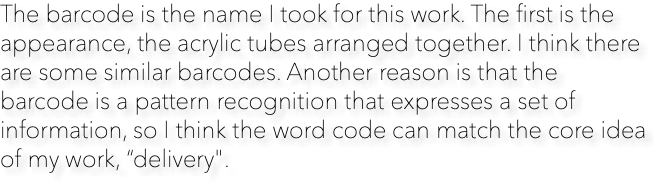
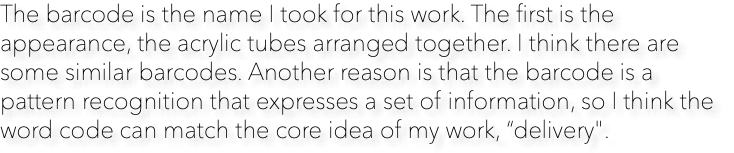
00

Changed region(s): [[0.0, 0.183, 1.0, 0.7582], [0.0, 0.0, 0.9466, 0.1569], [0.0, 0.7843, 0.8244, 0.9412]]

diff --git a/css/index.css b/css/index.css
@@ -1,1 +1,1 @@
-.version.index{color:#0000E2;background-color:#67AF83;}#page{z-index:1;width:1024px;min-height:7855px;background-image:none;border-width:0px;border-color:#000000;background-color:transparent;padding-bottom:62px;margin-left:auto;margin-right:auto;}#ppu615{z-index:0;width:0.01px;height:7841.950000000001px;padding-bottom:0px;margin-right:-10000px;margin-left:-100px;}#pu615{z-index:2;width:0.01px;height:788px;}#u615{z-index:2;min-height:401px;opacity:1;-ms-filter:"progid:DXImageTransform.Microsoft.Alpha(Opacity=100)";filter:alpha(opacity=100);padding-bottom:387px;background:#FFFFFF url("../images/773d0ced-c651-49f3-9534-1b053b5fc418%e6%8b%b7%e8%b2%9d.jpg?crc=303330456") no-repeat center center;background-size:cover;}#u132-4{z-index:15;display:block;vertical-align:top;position:relative;margin-right:-10000px;margin-top:239px;left:375px;}#u515-4{z-index:37;display:block;vertical-align:top;position:relative;margin-right:-10000px;margin-top:318px;left:437px;}.js body{visibility:hidden;}.js body.initialized{visibility:visible;}#u615-bw{z-index:2;min-height:401px;}#u369{z-index:126;width:113px;vertical-align:top;position:fixed;top:21px;left:50%;margin-left:151px;}#u369_states{float:left;width:113px;height:45px;background:transparent url("../images/u369_states.png?crc=101367247") no-repeat 0px 0px;}#u369:hover #u369_states{background:transparent url("../images/u369_states-r.png?crc=491187115") no-repeat 0px 0px;}#u369:active #u369_states{background:transparent url("../images/u369_states-m.png?crc=491187115") no-repeat 0px 0px;}#u372{z-index:130;width:136px;vertical-align:top;position:fixed;top:20px;left:50%;margin-left:299px;}#u372_states{float:left;width:136px;height:45px;background:transparent url("../images/u372_states.png?crc=3808893271") no-repeat 0px 0px;}#u372:hover #u372_states{background:transparent url("../images/u372_states-r.png?crc=125439119") no-repeat 0px 0px;}#u372:active #u372_states{background:transparent url("../images/u372_states-m.png?crc=125439119") no-repeat 0px 0px;}#u375{z-index:134;width:113px;vertical-align:top;position:fixed;top:21px;left:50%;margin-left:470px;}#u375_states{float:left;width:113px;height:45px;background:transparent url("../images/u375_states.png?crc=522217631") no-repeat 0px 0px;}#u375:hover #u375_states{background:transparent url("../images/u375_states-r.png?crc=406026535") no-repeat 0px 0px;}#u375:active #u375_states{background:transparent url("../images/u375_states-m.png?crc=406026535") no-repeat 0px 0px;}#pa{z-index:41;width:0.01px;margin-left:128px;margin-top:152px;}#a{position:relative;margin-right:-10000px;width:22px;margin-top:163px;}#u192-4{z-index:19;display:block;vertical-align:top;margin-bottom:-1px;position:relative;margin-right:-10000px;left:160px;}#u500{z-index:10;min-height:643px;background-color:#EDEDED;}#u506{z-index:11;width:316px;height:179px;background-color:#F4F5F4;position:relative;margin-right:-10000px;margin-top:285px;left:296px;}#u503{z-index:12;width:316px;height:179px;background-color:#F4F5F4;position:relative;margin-right:-10000px;margin-top:106px;left:100px;}#u509{z-index:13;width:316px;height:179px;background-color:#F4F5F4;position:relative;margin-right:-10000px;margin-top:464px;left:100px;}#u489{z-index:14;width:317px;box-shadow:0px 0px 8px rgba(127,127,127,0.5),0px 0px 8px rgba(127,127,127,0.5);background:-webkit-gradient(linear, center top, center bottom, from(rgba(255,255,255,0.5)),color-stop(100%, rgba(0,0,0,0.8)));background:-webkit-linear-gradient(top,rgba(255,255,255,0.5) ,rgba(0,0,0,0.8) 100%);background:linear-gradient(to bottom,rgba(255,255,255,0.5) ,rgba(0,0,0,0.8) 100%);filter:progid:DXImageTransform.Microsoft.gradient(startColorstr=#7FFFFFFF, endColorstr=#CC000000, GradientType=0);-ms-filter:"progid:DXImageTransform.Microsoft.gradient(startColorstr='#7FFFFFFF', endColorstr='#CC000000', GradientType=0)";border-radius:4px;padding-bottom:12px;position:relative;margin-right:-10000px;margin-top:52px;left:137px;}#u1182{z-index:123;width:314px;height:562px;opacity:1;-ms-filter:"progid:DXImageTransform.Microsoft.Alpha(Opacity=100)";filter:alpha(opacity=100);position:relative;margin-right:-10000px;margin-top:-12px;left:-9px;background:transparent url("../images/d9cc2016-a17c-4a67-8f40-1ed4b892792a%e6%8b%b7%e8%b2%9d.jpg?crc=3882555485") no-repeat left top;background-size:cover;}#u302-4{z-index:23;display:block;vertical-align:top;position:relative;margin-right:-10000px;margin-top:52px;left:501px;}#u320-6{z-index:27;display:block;vertical-align:top;position:relative;margin-right:-10000px;margin-top:127px;left:501px;}#u496-4{z-index:33;display:block;vertical-align:top;position:relative;margin-right:-10000px;margin-top:433px;left:501px;}#u500-bw{z-index:10;min-height:643px;margin-top:145px;}#b{margin-left:139px;margin-top:149px;position:relative;}#u947-4{z-index:53;display:block;vertical-align:top;margin-left:130px;margin-top:148px;position:relative;}#u809{z-index:6;width:1018px;box-shadow:0px 30px 70px rgba(0,0,0,0.5);background-color:#6CCFAF;padding-bottom:35px;margin-left:100px;margin-top:125px;position:relative;}#u639{z-index:42;width:390px;height:437px;opacity:1;-ms-filter:"progid:DXImageTransform.Microsoft.Alpha(Opacity=100)";filter:alpha(opacity=100);position:relative;margin-right:-10000px;margin-top:-95px;left:649px;background:transparent url("../images/%e9%9b%b7%e5%88%87.gif?crc=120545667") no-repeat left top;background-size:cover;}#u953-4{z-index:57;display:block;vertical-align:top;position:relative;margin-right:-10000px;margin-top:-17px;left:286px;}#u962-4{z-index:61;display:block;vertical-align:top;position:relative;margin-right:-10000px;margin-top:80px;left:190px;}#u812{z-index:7;width:1024px;box-shadow:0px 30px 70px rgba(0,0,0,0.5);background-color:#6CCFAF;padding-bottom:36px;margin-left:100px;margin-top:353px;position:relative;}#u776{z-index:43;width:390px;height:437px;opacity:1;-ms-filter:"progid:DXImageTransform.Microsoft.Alpha(Opacity=100)";filter:alpha(opacity=100);position:relative;margin-right:-10000px;margin-top:-96px;left:18px;background:transparent url("../images/%e5%9b%ba%e5%ae%9a.gif?crc=284323498") no-repeat left top;background-size:cover;}#pu965-4{z-index:65;width:0.01px;padding-bottom:0px;margin-right:-10000px;margin-top:-16px;margin-left:408px;}#u965-4{z-index:65;display:block;vertical-align:top;position:relative;}#u968-7{z-index:69;display:block;vertical-align:top;margin-top:27px;position:relative;}#u815{z-index:9;width:1018px;box-shadow:0px 30px 70px rgba(0,0,0,0.5);background-color:#6CCFAF;padding-bottom:37px;margin-left:100px;margin-top:354px;position:relative;}#pu971-4{z-index:76;width:0.01px;margin-right:-10000px;margin-top:-15px;margin-left:190px;}#u971-4{z-index:76;display:block;vertical-align:top;margin-left:291px;position:relative;}#u980-7{z-index:84;display:block;vertical-align:top;margin-top:45px;position:relative;}#u782{z-index:45;width:390px;height:437px;opacity:1;-ms-filter:"progid:DXImageTransform.Microsoft.Alpha(Opacity=100)";filter:alpha(opacity=100);position:relative;margin-right:-10000px;margin-top:-97px;left:649px;background:transparent url("../images/%e5%a3%93%e5%85%8b%e5%8a%9b.gif?crc=4241762188") no-repeat left top;background-size:cover;}#u818{z-index:8;width:1024px;box-shadow:0px 30px 70px rgba(0,0,0,0.5);background-color:#6CCFAF;padding-bottom:38px;margin-left:100px;margin-top:353px;position:relative;}#u779{z-index:44;width:390px;height:437px;opacity:1;-ms-filter:"progid:DXImageTransform.Microsoft.Alpha(Opacity=100)";filter:alpha(opacity=100);position:relative;margin-right:-10000px;margin-top:-98px;left:21px;background:transparent url("../images/%e7%84%8a%e6%8e%a5.gif?crc=381000801") no-repeat left top;background-size:cover;}.js #u639.ose_pre_init,.js #u776.ose_pre_init,.js #u782.ose_pre_init,.js #u779.ose_pre_init{opacity:0;-ms-filter:"progid:DXImageTransform.Microsoft.Alpha(Opacity=0)";filter:alpha(opacity=0);}#pu977-4{z-index:80;width:0.01px;margin-right:-10000px;margin-top:-15px;margin-left:408px;}#u977-4{z-index:80;display:block;vertical-align:top;margin-left:3px;position:relative;}#u986-7{z-index:91;display:block;vertical-align:top;margin-top:34px;position:relative;}#c{margin-left:150px;margin-top:191px;position:relative;}#u1103-4{z-index:100;display:block;vertical-align:top;margin-left:161px;margin-top:100px;position:relative;}#u1135{z-index:112;height:1px;background-color:#000000;}#u1135-bw{z-index:112;margin-top:-1px;margin-bottom:-1px;height:1px;}#pu1113{z-index:5;width:0.01px;margin-top:120px;}#u1113{z-index:5;width:413px;height:300px;background-color:#BEBEBE;position:relative;margin-right:-10000px;margin-top:26px;left:811px;}#u851{z-index:46;width:782px;height:428px;opacity:0.5;-ms-filter:"progid:DXImageTransform.Microsoft.Alpha(Opacity=50)";filter:alpha(opacity=50);position:relative;margin-right:-10000px;background:transparent url("../images/9c3586ba-180e-463c-811e-eaa049f3c681%e6%8b%b7%e8%b2%9d.jpg?crc=484098491") no-repeat left top;background-size:cover;}#u851:hover{background-repeat:no-repeat;background-position:left top;opacity:1;-ms-filter:"progid:DXImageTransform.Microsoft.Alpha(Opacity=100)";filter:alpha(opacity=100);width:782px;height:428px;min-height:0px;margin:0px -10000px 0px 0px;background-size:cover;}#u851:active{background-repeat:no-repeat;background-position:left top;opacity:1;-ms-filter:"progid:DXImageTransform.Microsoft.Alpha(Opacity=100)";filter:alpha(opacity=100);width:782px;height:428px;min-height:0px;margin:0px -10000px 0px 0px;background-size:cover;}#u1106{z-index:104;width:594px;box-shadow:0px 0px 8px rgba(127,127,127,0.5),0px 0px 8px rgba(127,127,127,0.5);background-color:#FFFFFF;padding-bottom:23px;position:relative;margin-right:-10000px;margin-top:77px;left:557px;}#u927-7{z-index:105;display:block;vertical-align:top;position:relative;margin-right:-10000px;margin-top:24px;left:27px;}#u1128{z-index:3;width:1024px;box-shadow:0px 0px 8px rgba(127,127,127,0.5),0px 0px 8px rgba(127,127,127,0.5);background-color:#FFFFFF;padding-bottom:20px;margin-left:100px;margin-top:208px;position:relative;}#u930-6{z-index:47;display:block;vertical-align:top;position:relative;margin-right:-10000px;margin-top:25px;left:39px;}#u874{z-index:4;min-height:863px;opacity:1;-ms-filter:"progid:DXImageTransform.Microsoft.Alpha(Opacity=100)";filter:alpha(opacity=100);padding-bottom:38px;background:transparent url("../images/f6516d1e-27da-408f-962f-e79bb9cf5bcd.jpg?crc=3899258750") no-repeat left top;background-size:cover;}#u615_align_to_page,#u500_align_to_page,#u874_align_to_page{margin-left:auto;margin-right:auto;position:relative;width:1024px;left:-100px;}#u1154-4{z-index:113;display:block;vertical-align:top;position:relative;margin-right:-10000px;margin-top:833px;left:429px;}#u874-bw{z-index:4;min-height:863px;margin-top:208px;}#u1171-6{z-index:117;display:block;vertical-align:top;margin-left:290px;margin-top:425px;position:relative;}#u512{z-index:124;height:102px;background-color:#FFFFFF;position:fixed;top:0px;}#u512-bw{z-index:124;}.css_verticalspacer .verticalspacer{height:calc(100vh - 7916px);}#muse_css_mq,.html{background-color:#FFFFFF;}body{position:relative;min-width:1024px;}
+.version.index{color:#000004;background-color:#63BD69;}#page{z-index:1;width:1024px;min-height:7855px;background-image:none;border-width:0px;border-color:#000000;background-color:transparent;padding-bottom:62px;margin-left:auto;margin-right:auto;}#ppu615{z-index:0;width:0.01px;height:7854.800000000001px;padding-bottom:0px;margin-right:-10000px;margin-left:-114px;}#pu615{z-index:3;width:0.01px;height:788px;margin-left:14px;}#u615{z-index:3;min-height:639px;opacity:1;-ms-filter:"progid:DXImageTransform.Microsoft.Alpha(Opacity=100)";filter:alpha(opacity=100);padding-bottom:149px;background:#FFFFFF url("../images/773d0ced-c651-49f3-9534-1b053b5fc418%e6%8b%b7%e8%b2%9d.jpg?crc=303330456") no-repeat center center;background-size:cover;}#pd{z-index:146;width:0.01px;padding-bottom:0px;margin-right:-10000px;margin-top:2px;margin-left:139px;}#d{margin-left:6px;position:relative;}#a{margin-top:600px;position:relative;}#ppu132-4{z-index:0;width:0.01px;margin-right:-10000px;margin-top:239px;margin-left:288px;}#pu132-4{z-index:17;width:0.01px;margin-left:87px;}#u132-4{z-index:17;display:block;vertical-align:top;position:relative;margin-right:-10000px;}#u515-4{z-index:43;display:block;vertical-align:top;position:relative;margin-right:-10000px;margin-top:79px;left:62px;}#u1154-4{z-index:126;display:block;vertical-align:top;top:-6px;margin-bottom:-6px;position:relative;}.js body{visibility:hidden;}.js body.initialized{visibility:visible;}#u615-bw{z-index:3;min-height:639px;}#u369{z-index:152;width:113px;vertical-align:top;position:fixed;top:39px;right:343px;}#u369_states{float:left;width:113px;height:34px;background:transparent url("../images/u369_states.png?crc=458908203") no-repeat 0px 0px;}#u369:hover #u369_states{background:transparent url("../images/u369_states-r.png?crc=4029497256") no-repeat 0px 0px;}#u369:active #u369_states{background:transparent url("../images/u369_states-m.png?crc=4029497256") no-repeat 0px 0px;}#u372{z-index:156;width:136px;vertical-align:top;position:fixed;top:40px;right:172px;}#u372_states{float:left;width:136px;height:33px;background:transparent url("../images/u372_states.png?crc=108451225") no-repeat 0px 0px;}#u372:hover #u372_states{background:transparent url("../images/u372_states-r.png?crc=3971885787") no-repeat 0px 0px;}#u372:active #u372_states{background:transparent url("../images/u372_states-m.png?crc=3971885787") no-repeat 0px 0px;}#u375{z-index:160;width:113px;vertical-align:top;position:fixed;top:43px;right:24px;}#u375_states{float:left;width:113px;height:29px;background:transparent url("../images/u375_states.png?crc=4010306546") no-repeat 0px 0px;}#u375:hover #u375_states{background:transparent url("../images/u375_states-r.png?crc=422188611") no-repeat 0px 0px;}#u375:active #u375_states{background:transparent url("../images/u375_states-m.png?crc=422188611") no-repeat 0px 0px;}#pu1249{z-index:2;width:0.01px;margin-left:223px;margin-top:107px;}#u1249{z-index:2;width:227px;height:233px;opacity:1;-ms-filter:"progid:DXImageTransform.Microsoft.Alpha(Opacity=100)";filter:alpha(opacity=100);position:relative;margin-right:-10000px;margin-top:18px;left:688px;background:transparent url("../images/%e7%87%88%e6%b3%a1icon_%e5%b7%a5%e4%bd%9c%e5%8d%80%e5%9f%9f%201.png?crc=525418351") no-repeat left top;background-size:cover;}#u192-4{z-index:21;display:block;vertical-align:top;position:relative;margin-right:-10000px;margin-top:77px;}#u1268-4{z-index:29;display:block;vertical-align:top;position:relative;margin-right:-10000px;}#u500{z-index:12;min-height:643px;background-color:#EDEDED;}#u506{z-index:13;width:316px;height:179px;background-color:#F4F5F4;position:relative;margin-right:-10000px;margin-top:285px;left:296px;}#u503{z-index:14;width:316px;height:179px;background-color:#F4F5F4;position:relative;margin-right:-10000px;margin-top:106px;left:100px;}#u509{z-index:15;width:316px;height:179px;background-color:#F4F5F4;position:relative;margin-right:-10000px;margin-top:464px;left:100px;}#u489{z-index:16;width:317px;box-shadow:0px 0px 8px rgba(127,127,127,0.5),0px 0px 8px rgba(127,127,127,0.5);background:-webkit-gradient(linear, center top, center bottom, from(rgba(255,255,255,0.5)),color-stop(100%, rgba(0,0,0,0.8)));background:-webkit-linear-gradient(top,rgba(255,255,255,0.5) ,rgba(0,0,0,0.8) 100%);background:linear-gradient(to bottom,rgba(255,255,255,0.5) ,rgba(0,0,0,0.8) 100%);filter:progid:DXImageTransform.Microsoft.gradient(startColorstr=#7FFFFFFF, endColorstr=#CC000000, GradientType=0);-ms-filter:"progid:DXImageTransform.Microsoft.gradient(startColorstr='#7FFFFFFF', endColorstr='#CC000000', GradientType=0)";border-radius:4px;padding-bottom:12px;position:relative;margin-right:-10000px;margin-top:52px;left:137px;}#u1182{z-index:136;width:314px;height:562px;opacity:1;-ms-filter:"progid:DXImageTransform.Microsoft.Alpha(Opacity=100)";filter:alpha(opacity=100);position:relative;margin-right:-10000px;margin-top:-12px;left:-9px;background:transparent url("../images/d9cc2016-a17c-4a67-8f40-1ed4b892792a%e6%8b%b7%e8%b2%9d.jpg?crc=3882555485") no-repeat left top;background-size:cover;}#u302-4{z-index:25;display:block;vertical-align:top;position:relative;margin-right:-10000px;margin-top:52px;left:501px;}#u320-6{z-index:33;display:block;vertical-align:top;position:relative;margin-right:-10000px;margin-top:127px;left:501px;}#u496-4{z-index:39;display:block;vertical-align:top;position:relative;margin-right:-10000px;margin-top:433px;left:501px;}#u500-bw{z-index:12;min-height:643px;margin-top:120px;}#b{margin-left:153px;margin-top:149px;position:relative;}#u947-4{z-index:59;display:block;vertical-align:top;margin-left:144px;margin-top:148px;position:relative;}#pu809{z-index:8;width:0.01px;padding-bottom:84px;margin-top:125px;}#u809{z-index:8;width:1018px;box-shadow:0px 30px 70px rgba(0,0,0,0.5);background-color:#6CCFAF;padding-bottom:35px;position:relative;margin-right:-10000px;left:114px;}#u639{z-index:48;width:390px;height:437px;opacity:1;-ms-filter:"progid:DXImageTransform.Microsoft.Alpha(Opacity=100)";filter:alpha(opacity=100);position:relative;margin-right:-10000px;margin-top:-95px;left:649px;background:transparent url("../images/%e9%9b%b7%e5%88%87.gif?crc=120545667") no-repeat left top;background-size:cover;}#u953-4{z-index:63;display:block;vertical-align:top;position:relative;margin-right:-10000px;margin-top:-17px;left:286px;}#u962-4{z-index:67;display:block;vertical-align:top;position:relative;margin-right:-10000px;margin-top:80px;left:190px;}#u1275{z-index:137;width:370px;height:320px;opacity:1;-ms-filter:"progid:DXImageTransform.Microsoft.Alpha(Opacity=100)";filter:alpha(opacity=100);-webkit-transform:matrix(0.7071,0.7071,-0.7071,0.7071,167,-84);-ms-transform:matrix(0.7071,0.7071,-0.7071,0.7071,167,-84);transform:matrix(0.7071,0.7071,-0.7071,0.7071,167,-84);position:relative;margin-right:-10000px;margin-top:84px;left:59px;background:transparent url("../images/%e8%a8%8a%e8%99%9ficon_%e5%b7%a5%e4%bd%9c%e5%8d%80%e5%9f%9f%201.png?crc=464360201") no-repeat left top;background-size:cover;}#u1306{z-index:141;width:39px;height:38px;box-shadow:0px 10px 70px rgba(0,0,0,0.5);background-color:#7F7F7F;border-radius:50%;margin-left:607px;margin-top:56px;position:relative;}#pu812{z-index:9;width:0.01px;padding-bottom:84px;margin-left:114px;margin-top:148px;}#u812{z-index:9;width:1024px;box-shadow:0px 30px 70px rgba(0,0,0,0.5);background-color:#6CCFAF;padding-bottom:36px;position:relative;margin-right:-10000px;}#u776{z-index:49;width:390px;height:437px;opacity:1;-ms-filter:"progid:DXImageTransform.Microsoft.Alpha(Opacity=100)";filter:alpha(opacity=100);position:relative;margin-right:-10000px;margin-top:-96px;left:18px;background:transparent url("../images/%e5%9b%ba%e5%ae%9a.gif?crc=284323498") no-repeat left top;background-size:cover;}#pu965-4{z-index:71;width:0.01px;padding-bottom:0px;margin-right:-10000px;margin-top:-16px;margin-left:408px;}#u965-4{z-index:71;display:block;vertical-align:top;position:relative;}#u968-7{z-index:75;display:block;vertical-align:top;margin-top:27px;position:relative;}#u1294{z-index:139;width:370px;height:320px;opacity:1;-ms-filter:"progid:DXImageTransform.Microsoft.Alpha(Opacity=100)";filter:alpha(opacity=100);-webkit-transform:matrix(0.7071,-0.7071,0.7071,0.7071,-59,178);-ms-transform:matrix(0.7071,-0.7071,0.7071,0.7071,-59,178);transform:matrix(0.7071,-0.7071,0.7071,0.7071,-59,178);position:relative;margin-right:-10000px;margin-top:84px;left:697px;background:transparent url("../images/%e8%a8%8a%e8%99%9ficon_%e5%b7%a5%e4%bd%9c%e5%8d%80%e5%9f%9f%201.png?crc=464360201") no-repeat left top;background-size:cover;}#u1309{z-index:142;width:39px;height:38px;box-shadow:0px 10px 70px rgba(0,0,0,0.5);background-color:#7F7F7F;border-radius:50%;margin-left:605px;margin-top:39px;position:relative;}#pu815{z-index:11;width:0.01px;padding-bottom:84px;margin-left:14px;margin-top:165px;}#u815{z-index:11;width:1018px;box-shadow:0px 30px 70px rgba(0,0,0,0.5);background-color:#6CCFAF;padding-bottom:37px;position:relative;margin-right:-10000px;left:100px;}#pu971-4{z-index:82;width:0.01px;margin-right:-10000px;margin-top:-15px;margin-left:190px;}#u971-4{z-index:82;display:block;vertical-align:top;margin-left:291px;position:relative;}#u980-7{z-index:90;display:block;vertical-align:top;margin-top:45px;position:relative;}#u782{z-index:51;width:390px;height:437px;opacity:1;-ms-filter:"progid:DXImageTransform.Microsoft.Alpha(Opacity=100)";filter:alpha(opacity=100);position:relative;margin-right:-10000px;margin-top:-97px;left:649px;background:transparent url("../images/%e5%a3%93%e5%85%8b%e5%8a%9b.gif?crc=4241762188") no-repeat left top;background-size:cover;}#u1300{z-index:138;width:370px;height:320px;opacity:1;-ms-filter:"progid:DXImageTransform.Microsoft.Alpha(Opacity=100)";filter:alpha(opacity=100);-webkit-transform:matrix(0.7071,0.7071,-0.7071,0.7071,167,-84);-ms-transform:matrix(0.7071,0.7071,-0.7071,0.7071,167,-84);transform:matrix(0.7071,0.7071,-0.7071,0.7071,167,-84);position:relative;margin-right:-10000px;margin-top:84px;left:59px;background:transparent url("../images/%e8%a8%8a%e8%99%9ficon_%e5%b7%a5%e4%bd%9c%e5%8d%80%e5%9f%9f%201.png?crc=464360201") no-repeat left top;background-size:cover;}#u1312{z-index:143;width:39px;height:38px;box-shadow:0px 10px 70px rgba(0,0,0,0.5);background-color:#7F7F7F;border-radius:50%;margin-left:607px;margin-top:40px;position:relative;}#pu818{z-index:10;width:0.01px;padding-bottom:84px;margin-left:114px;margin-top:165px;}#u818{z-index:10;width:1024px;box-shadow:0px 30px 70px rgba(0,0,0,0.5);background-color:#6CCFAF;padding-bottom:38px;position:relative;margin-right:-10000px;}#u779{z-index:50;width:390px;height:437px;opacity:1;-ms-filter:"progid:DXImageTransform.Microsoft.Alpha(Opacity=100)";filter:alpha(opacity=100);position:relative;margin-right:-10000px;margin-top:-98px;left:21px;background:transparent url("../images/%e7%84%8a%e6%8e%a5.gif?crc=381000801") no-repeat left top;background-size:cover;}.js #u639.ose_pre_init,.js #u776.ose_pre_init,.js #u782.ose_pre_init,.js #u779.ose_pre_init{opacity:0;-ms-filter:"progid:DXImageTransform.Microsoft.Alpha(Opacity=0)";filter:alpha(opacity=0);}#pu977-4{z-index:86;width:0.01px;margin-right:-10000px;margin-top:-15px;margin-left:408px;}#u977-4{z-index:86;display:block;vertical-align:top;margin-left:3px;position:relative;}#u986-7{z-index:97;display:block;vertical-align:top;margin-top:34px;position:relative;}#u1297{z-index:140;width:370px;height:320px;opacity:1;-ms-filter:"progid:DXImageTransform.Microsoft.Alpha(Opacity=100)";filter:alpha(opacity=100);-webkit-transform:matrix(0.7071,-0.7071,0.7071,0.7071,-59,178);-ms-transform:matrix(0.7071,-0.7071,0.7071,0.7071,-59,178);transform:matrix(0.7071,-0.7071,0.7071,0.7071,-59,178);position:relative;margin-right:-10000px;margin-top:84px;left:697px;background:transparent url("../images/%e8%a8%8a%e8%99%9ficon_%e5%b7%a5%e4%bd%9c%e5%8d%80%e5%9f%9f%201.png?crc=464360201") no-repeat left top;background-size:cover;}#c{margin-left:164px;margin-top:211px;position:relative;}#u1103-4{z-index:106;display:block;vertical-align:top;margin-left:175px;margin-top:100px;position:relative;}#pu1113{z-index:6;width:0.01px;margin-left:14px;margin-top:15px;}#u1113{z-index:6;width:413px;height:300px;background-color:#BEBEBE;position:relative;margin-right:-10000px;left:811px;}#u851{z-index:52;width:782px;height:428px;opacity:0.5;-ms-filter:"progid:DXImageTransform.Microsoft.Alpha(Opacity=50)";filter:alpha(opacity=50);position:relative;margin-right:-10000px;margin-top:105px;background:transparent url("../images/9c3586ba-180e-463c-811e-eaa049f3c681%e6%8b%b7%e8%b2%9d.jpg?crc=484098491") no-repeat left top;background-size:cover;}#u851:hover{background-repeat:no-repeat;background-position:left top;opacity:1;-ms-filter:"progid:DXImageTransform.Microsoft.Alpha(Opacity=100)";filter:alpha(opacity=100);width:782px;height:428px;min-height:0px;margin:105px -10000px 0px 0px;background-size:cover;}#u851:active{background-repeat:no-repeat;background-position:left top;opacity:1;-ms-filter:"progid:DXImageTransform.Microsoft.Alpha(Opacity=100)";filter:alpha(opacity=100);width:782px;height:428px;min-height:0px;margin:105px -10000px 0px 0px;background-size:cover;}#u1106{z-index:118;width:594px;box-shadow:0px 0px 8px rgba(127,127,127,0.5),0px 0px 8px rgba(127,127,127,0.5);background-color:#FFFFFF;padding-bottom:23px;position:relative;margin-right:-10000px;margin-top:182px;left:557px;}#u927-7{z-index:119;display:block;vertical-align:top;position:relative;margin-right:-10000px;margin-top:24px;left:27px;}#u1128{z-index:4;width:1024px;box-shadow:0px 0px 8px rgba(127,127,127,0.5),0px 0px 8px rgba(127,127,127,0.5);background-color:#FFFFFF;padding-bottom:23px;margin-left:114px;margin-top:208px;position:relative;}#u930-6{z-index:53;display:block;vertical-align:top;position:relative;margin-right:-10000px;margin-top:22px;left:40px;}#pu1330{z-index:7;width:0.01px;margin-left:14px;margin-top:119px;}#u1330{z-index:7;min-height:70px;background-color:#BEBEBE;padding-bottom:26px;}#u615_align_to_page,#u500_align_to_page,#u1330_align_to_page{margin-left:auto;margin-right:auto;position:relative;width:1024px;left:-100px;}#u1340-4{z-index:110;display:block;vertical-align:top;position:relative;margin-right:-10000px;margin-top:34px;left:361px;}#u1343-4{z-index:114;display:block;vertical-align:top;position:relative;margin-right:-10000px;margin-top:34px;left:782px;}#u1330-bw{z-index:7;min-height:70px;margin-top:151px;}#u1333{z-index:144;width:313px;background-color:#FFFFFF;padding-bottom:8px;position:relative;margin-right:-10000px;left:455px;}#u1319{z-index:145;width:254px;height:243px;opacity:1;-ms-filter:"progid:DXImageTransform.Microsoft.Alpha(Opacity=100)";filter:alpha(opacity=100);position:relative;margin-right:-10000px;margin-top:30px;left:29px;background:transparent url("../images/%e5%a4%aa%e9%99%bdicon_%e5%b7%a5%e4%bd%9c%e5%8d%80%e5%9f%9f%201.png?crc=332841456") no-repeat left top;background-size:cover;}#u874{z-index:5;height:842px;opacity:1;-ms-filter:"progid:DXImageTransform.Microsoft.Alpha(Opacity=100)";filter:alpha(opacity=100);background:transparent url("../images/f6516d1e-27da-408f-962f-e79bb9cf5bcd.jpg?crc=3899258750") no-repeat left top;background-size:cover;}#u874-bw{z-index:5;height:842px;}#u1391{z-index:148;height:76px;width:74px;vertical-align:top;position:fixed;bottom:105px;right:94px;background:transparent url("../images/%e6%96%b9%e5%90%91%e6%a8%99%ef%bc%88%e4%b8%8aicon_%e5%b7%a5%e4%bd%9c%e5%8d%80%e5%9f%9f%201-u1391.png?crc=388802704") no-repeat 0px 0px;}#u1391:hover{background:transparent url("../images/%e6%96%b9%e5%90%91%e6%a8%99%ef%bc%88%e4%b8%8aicon_%e5%b7%a5%e4%bd%9c%e5%8d%80%e5%9f%9f%201-u1391-r.png?crc=110739984") no-repeat 0px 0px;}#u1171-6{z-index:130;display:block;vertical-align:top;margin-left:304px;margin-top:174px;position:relative;}#pu512{z-index:150;width:0.01px;height:0px;padding-bottom:102px;margin-right:-10000px;}#u512{z-index:150;height:102px;background-color:#FFFFFF;position:fixed;top:0px;}#u512-bw{z-index:150;}#u1477{z-index:163;width:12px;height:15px;background-color:#000000;position:fixed;top:57px;right:319px;}#u1480{z-index:164;width:12px;height:15px;background-color:#000000;position:fixed;top:57px;right:148px;}#u1494{z-index:165;width:32px;height:50px;background-color:#000000;position:fixed;top:7px;left:42px;}#u1497{z-index:166;width:14px;height:32px;background-color:#000000;position:fixed;top:7px;left:81px;}.css_verticalspacer .verticalspacer{height:calc(100vh - 7916px);}#muse_css_mq,.html{background-color:#FFFFFF;}body{position:relative;min-width:1024px;}

diff --git a/index.html b/index.html
@@ -16,7 +16,7 @@ if(typeof Muse == "undefined") window.Muse = {}; window.Muse.assets = {"required
   <title>首頁</title>
   <!-- CSS -->
   <link rel="stylesheet" type="text/css" href="css/site_global.css?crc=444006867"/>
-  <link rel="stylesheet" type="text/css" href="css/index.css?crc=3798445955" id="pagesheet"/>
+  <link rel="stylesheet" type="text/css" href="css/index.css?crc=73645417" id="pagesheet"/>
    </head>
  <body>
 
@@ -26,8 +26,17 @@ if(typeof Muse == "undefined") window.Muse = {}; window.Muse.assets = {"required
      <div class="browser_width grpelem" id="u615-bw">
       <div class="museBGSize" id="u615"><!-- group -->
        <div class="clearfix" id="u615_align_to_page">
-        <img class="grpelem" id="u132-4" alt="Barcode" width="461" height="101" src="images/u132-4.png?crc=315691840"/><!-- rasterized frame -->
-        <img class="grpelem" id="u515-4" alt="Imagination of light" width="345" height="83" src="images/u515-4.png?crc=364365493"/><!-- rasterized frame -->
+        <div class="clearfix grpelem" id="pd"><!-- column -->
+         <a class="anchor_item colelem" id="d"></a>
+         <a class="anchor_item colelem" id="a"></a>
+        </div>
+        <div class="clearfix grpelem" id="ppu132-4"><!-- column -->
+         <div class="clearfix colelem" id="pu132-4"><!-- group -->
+          <img class="grpelem" id="u132-4" alt="Barcode" width="461" height="101" src="images/u132-4.png?crc=315691840"/><!-- rasterized frame -->
+          <img class="grpelem" id="u515-4" alt="Imagination of light" width="345" height="83" src="images/u515-4.png?crc=364365493"/><!-- rasterized frame -->
+         </div>
+         <img class="colelem" id="u1154-4" alt="-Lighting, and shadow appeared-." width="360" height="30" src="images/u1154-4.png?crc=4086881208"/><!-- rasterized frame -->
+        </div>
        </div>
       </div>
      </div>
@@ -35,9 +44,10 @@ if(typeof Muse == "undefined") window.Muse = {}; window.Muse.assets = {"required
      <a class="nonblock nontext anim_swing" id="u372" href="index.html#b"><!-- state-based BG images --><img id="u372_states" alt="production" src="images/blank.gif?crc=4208392903"/></a>
      <a class="nonblock nontext anim_swing" id="u375" href="index.html#c"><!-- state-based BG images --><img id="u375_states" alt="display" src="images/blank.gif?crc=4208392903"/></a>
     </div>
-    <div class="clearfix colelem" id="pa"><!-- group -->
-     <a class="anchor_item grpelem" id="a"></a>
-     <img class="grpelem" id="u192-4" alt="The barcode is the name I took for this work. The first is the appearance, the acrylic tubes arranged together. I think there are some similar barcodes. Another reason is that the barcode is a pattern recognition that expresses a set of information, so I think the word code can match the core idea of my work, “delivery&quot;." width="654" height="182" src="images/u192-4.png?crc=478787835"/><!-- rasterized frame -->
+    <div class="clearfix colelem" id="pu1249"><!-- group -->
+     <div class="museBGSize grpelem" id="u1249"><!-- content --></div>
+     <img class="grpelem" id="u192-4" alt="The barcode is the name I took for this work. The first is the appearance, the acrylic tubes arranged together. I think there are some similar barcodes. Another reason is that the barcode is a pattern recognition that expresses a set of information, so I think the word code can match the core idea of my work, “delivery&quot;." width="733" height="153" src="images/u192-4.png?crc=3919940400"/><!-- rasterized frame -->
+     <img class="grpelem" id="u1268-4" alt="works" width="101" height="36" src="images/u1268-4.png?crc=213842234"/><!-- rasterized frame -->
     </div>
     <div class="browser_width colelem" id="u500-bw">
      <div id="u500"><!-- group -->
@@ -56,37 +66,49 @@ if(typeof Muse == "undefined") window.Muse = {}; window.Muse.assets = {"required
     </div>
     <a class="anchor_item colelem" id="b"></a>
     <img class="colelem" id="u947-4" alt="production" width="157" height="44" src="images/u947-4.png?crc=398575177"/><!-- rasterized frame -->
-    <div class="shadow clearfix colelem" id="u809"><!-- group -->
-     <div class="museBGSize ose_pre_init grpelem" id="u639"><!-- simple frame --></div>
-     <img class="grpelem" id="u953-4" alt="Laser Engraving" width="365" height="58" src="images/u953-4.png?crc=4159283309"/><!-- rasterized frame -->
-     <img class="grpelem" id="u962-4" alt="Put forward your own ideas and discuss with the industry to understand the rationality of the work." width="448" height="87" src="images/u962-4.png?crc=4182463698"/><!-- rasterized frame -->
-    </div>
-    <div class="shadow clearfix colelem" id="u812"><!-- group -->
-     <div class="museBGSize ose_pre_init grpelem" id="u776"><!-- simple frame --></div>
-     <div class="clearfix grpelem" id="pu965-4"><!-- column -->
-      <img class="colelem" id="u965-4" alt="Fixed" width="365" height="58" src="images/u965-4.png?crc=469867600"/><!-- rasterized frame -->
-      <img class="colelem" id="u968-7" alt="SS Threaded Rod / SS nut / SS iron ring After laser, pass the rod through the round hole in the stainless steel plate and fix it with a nut and iron ring" width="428" height="145" src="images/u968-7.png?crc=3765291093"/><!-- rasterized frame -->
+    <div class="clearfix colelem" id="pu809"><!-- group -->
+     <div class="shadow clearfix grpelem" id="u809"><!-- group -->
+      <div class="museBGSize ose_pre_init grpelem" id="u639"><!-- simple frame --></div>
+      <img class="grpelem" id="u953-4" alt="Laser Engraving" width="365" height="58" src="images/u953-4.png?crc=4159283309"/><!-- rasterized frame -->
+      <img class="grpelem" id="u962-4" alt="Put forward your own ideas and discuss with the industry to understand the rationality of the work." width="448" height="87" src="images/u962-4.png?crc=4182463698"/><!-- rasterized frame -->
      </div>
+     <div class="museBGSize grpelem" id="u1275" data-mu-ie-matrix="progid:DXImageTransform.Microsoft.Matrix(M11=0.7071,M12=-0.7071,M21=0.7071,M22=0.7071,SizingMethod='auto expand')" data-mu-ie-matrix-dx="-59" data-mu-ie-matrix-dy="-84"><!-- content --></div>
     </div>
-    <div class="shadow clearfix colelem" id="u815"><!-- group -->
-     <div class="clearfix grpelem" id="pu971-4"><!-- column -->
-      <img class="colelem" id="u971-4" alt="Collage" width="168" height="58" src="images/u971-4.png?crc=3804024063"/><!-- rasterized frame -->
-      <img class="colelem" id="u980-7" alt="All kinds of acrylic tube / Liquid super glue Stick the acrylic tube one by one to the edge of the stainless steel plate" width="459" height="116" src="images/u980-7.png?crc=4152256925"/><!-- rasterized frame -->
+    <div class="shadow rounded-corners colelem" id="u1306"><!-- simple frame --></div>
+    <div class="clearfix colelem" id="pu812"><!-- group -->
+     <div class="shadow clearfix grpelem" id="u812"><!-- group -->
+      <div class="museBGSize ose_pre_init grpelem" id="u776"><!-- simple frame --></div>
+      <div class="clearfix grpelem" id="pu965-4"><!-- column -->
+       <img class="colelem" id="u965-4" alt="Fixed" width="365" height="58" src="images/u965-4.png?crc=469867600"/><!-- rasterized frame -->
+       <img class="colelem" id="u968-7" alt="SS Threaded Rod / SS nut / SS iron ring After laser, pass the rod through the round hole in the stainless steel plate and fix it with a nut and iron ring" width="428" height="145" src="images/u968-7.png?crc=3765291093"/><!-- rasterized frame -->
+      </div>
      </div>
-     <div class="museBGSize ose_pre_init grpelem" id="u782"><!-- simple frame --></div>
+     <div class="museBGSize grpelem" id="u1294" data-mu-ie-matrix="progid:DXImageTransform.Microsoft.Matrix(M11=0.7071,M12=0.7071,M21=-0.7071,M22=0.7071,SizingMethod='auto expand')" data-mu-ie-matrix-dx="-59" data-mu-ie-matrix-dy="-84"><!-- content --></div>
     </div>
-    <div class="shadow clearfix colelem" id="u818"><!-- group -->
-     <div class="museBGSize ose_pre_init grpelem" id="u779"><!-- simple frame --></div>
-     <div class="clearfix grpelem" id="pu977-4"><!-- column -->
-      <img class="colelem" id="u977-4" alt="Power ups" width="237" height="58" src="images/u977-4.png?crc=427897731"/><!-- rasterized frame -->
-      <img class="colelem" id="u986-7" alt="Led light strip / Wire / Welding tool Follow the circular curve on the stainless steel plate, paste on the led light strips . Then weld the wire" width="428" height="145" src="images/u986-7.png?crc=3907465046"/><!-- rasterized frame -->
+    <div class="shadow rounded-corners colelem" id="u1309"><!-- simple frame --></div>
+    <div class="clearfix colelem" id="pu815"><!-- group -->
+     <div class="shadow clearfix grpelem" id="u815"><!-- group -->
+      <div class="clearfix grpelem" id="pu971-4"><!-- column -->
+       <img class="colelem" id="u971-4" alt="Collage" width="168" height="58" src="images/u971-4.png?crc=3804024063"/><!-- rasterized frame -->
+       <img class="colelem" id="u980-7" alt="All kinds of acrylic tube / Liquid super glue Stick the acrylic tube one by one to the edge of the stainless steel plate" width="459" height="116" src="images/u980-7.png?crc=4152256925"/><!-- rasterized frame -->
+      </div>
+      <div class="museBGSize ose_pre_init grpelem" id="u782"><!-- simple frame --></div>
      </div>
+     <div class="museBGSize grpelem" id="u1300" data-mu-ie-matrix="progid:DXImageTransform.Microsoft.Matrix(M11=0.7071,M12=-0.7071,M21=0.7071,M22=0.7071,SizingMethod='auto expand')" data-mu-ie-matrix-dx="-59" data-mu-ie-matrix-dy="-84"><!-- content --></div>
+    </div>
+    <div class="shadow rounded-corners colelem" id="u1312"><!-- simple frame --></div>
+    <div class="clearfix colelem" id="pu818"><!-- group -->
+     <div class="shadow clearfix grpelem" id="u818"><!-- group -->
+      <div class="museBGSize ose_pre_init grpelem" id="u779"><!-- simple frame --></div>
+      <div class="clearfix grpelem" id="pu977-4"><!-- column -->
+       <img class="colelem" id="u977-4" alt="Power ups" width="237" height="58" src="images/u977-4.png?crc=427897731"/><!-- rasterized frame -->
+       <img class="colelem" id="u986-7" alt="Led light strip / Wire / Welding tool Follow the circular curve on the stainless steel plate, paste on the led light strips . Then weld the wire" width="428" height="145" src="images/u986-7.png?crc=3907465046"/><!-- rasterized frame -->
+      </div>
+     </div>
+     <div class="museBGSize grpelem" id="u1297" data-mu-ie-matrix="progid:DXImageTransform.Microsoft.Matrix(M11=0.7071,M12=0.7071,M21=-0.7071,M22=0.7071,SizingMethod='auto expand')" data-mu-ie-matrix-dx="-59" data-mu-ie-matrix-dy="-84"><!-- content --></div>
     </div>
     <a class="anchor_item colelem" id="c"></a>
     <img class="colelem" id="u1103-4" alt="display" width="104" height="44" src="images/u1103-4.png?crc=3988835929"/><!-- rasterized frame -->
-    <div class="browser_width colelem" id="u1135-bw">
-     <div id="u1135"><!-- simple frame --></div>
-    </div>
     <div class="clearfix colelem" id="pu1113"><!-- group -->
      <div class="grpelem" id="u1113"><!-- simple frame --></div>
      <div class="museBGSize grpelem" id="u851"><!-- simple frame --></div>
@@ -97,27 +119,44 @@ if(typeof Muse == "undefined") window.Muse = {}; window.Muse.assets = {"required
     <div class="shadow clearfix colelem" id="u1128"><!-- group -->
      <img class="grpelem" id="u930-6" alt="&nbsp;I also connected the LED light to the stainless steel plate, expecting the light to pass through the acrylic tube, and finally reflecting the pattern on the stainless steel plate. The shape of the beautiful light is shot on. I hope that the light will pass through the acrylic tube, and finally reflecting the pattern on the stainless steel plate. In the process, it will make a beautiful light shape on the wall." width="945" height="157" src="images/u930-6.png?crc=292293161"/><!-- rasterized frame -->
     </div>
-    <div class="browser_width colelem" id="u874-bw">
-     <div class="museBGSize" id="u874"><!-- group -->
-      <div class="clearfix" id="u874_align_to_page">
-       <img class="grpelem" id="u1154-4" alt="-Lighting, and shadow appeared-." width="360" height="30" src="images/u1154-4.png?crc=4086881208"/><!-- rasterized frame -->
+    <div class="clearfix colelem" id="pu1330"><!-- group -->
+     <div class="browser_width grpelem" id="u1330-bw">
+      <div id="u1330"><!-- group -->
+       <div class="clearfix" id="u1330_align_to_page">
+        <img class="grpelem" id="u1340-4" alt="show" width="81" height="36" src="images/u1340-4.png?crc=127482221"/><!-- rasterized frame -->
+        <img class="grpelem" id="u1343-4" alt="time" width="72" height="36" src="images/u1343-4.png?crc=3823513244"/><!-- rasterized frame -->
+       </div>
       </div>
      </div>
+     <div class="clearfix grpelem" id="u1333"><!-- group -->
+      <div class="museBGSize grpelem" id="u1319"><!-- content --></div>
+     </div>
     </div>
+    <div class="browser_width colelem" id="u874-bw">
+     <div class="museBGSize" id="u874"><!-- simple frame --></div>
+    </div>
+    <a class="nonblock nontext anim_swing pinned-colelem" id="u1391" href="index.html#d"><!-- state-based BG images --></a>
     <img class="colelem" id="u1171-6" alt="Department of Communications Design, Shih Chien University jia yun yu" width="646" height="36" src="images/u1171-6.png?crc=521149417"/><!-- rasterized frame -->
    </div>
-   <div class="browser_width" id="u512-bw">
-    <div id="u512"><!-- simple frame --></div>
+   <div class="clearfix grpelem" id="pu512"><!-- group -->
+    <div class="browser_width" id="u512-bw">
+     <div id="u512"><!-- simple frame --></div>
+    </div>
+    <div id="u1477"><!-- simple frame --></div>
+    <div id="u1480"><!-- simple frame --></div>
+    <div id="u1494"><!-- simple frame --></div>
+    <div id="u1497"><!-- simple frame --></div>
    </div>
-   <div class="verticalspacer" data-offset-top="7842" data-content-above-spacer="7841" data-content-below-spacer="75"></div>
+   <div class="verticalspacer" data-offset-top="7855" data-content-above-spacer="7855" data-content-below-spacer="61"></div>
   </div>
   <div class="preload_images">
-   <img class="preload" src="images/u369_states-r.png?crc=491187115" alt=""/>
-   <img class="preload" src="images/u369_states-m.png?crc=491187115" alt=""/>
-   <img class="preload" src="images/u372_states-r.png?crc=125439119" alt=""/>
-   <img class="preload" src="images/u372_states-m.png?crc=125439119" alt=""/>
-   <img class="preload" src="images/u375_states-r.png?crc=406026535" alt=""/>
-   <img class="preload" src="images/u375_states-m.png?crc=406026535" alt=""/>
+   <img class="preload" src="images/u369_states-r.png?crc=4029497256" alt=""/>
+   <img class="preload" src="images/u369_states-m.png?crc=4029497256" alt=""/>
+   <img class="preload" src="images/u372_states-r.png?crc=3971885787" alt=""/>
+   <img class="preload" src="images/u372_states-m.png?crc=3971885787" alt=""/>
+   <img class="preload" src="images/u375_states-r.png?crc=422188611" alt=""/>
+   <img class="preload" src="images/u375_states-m.png?crc=422188611" alt=""/>
+   <img class="preload" src="images/%e6%96%b9%e5%90%91%e6%a8%99%ef%bc%88%e4%b8%8aicon_%e5%b7%a5%e4%bd%9c%e5%8d%80%e5%9f%9f%201-u1391-r.png?crc=110739984" alt=""/>
   </div>
   <!-- Other scripts -->
   <script type="text/javascript">
@@ -144,7 +183,6 @@ $('#u639').registerOpacityScrollEffect([{"in":[-Infinity,2045.25],"opacity":0,"f
 $('#u776').registerOpacityScrollEffect([{"in":[-Infinity,2746.3],"opacity":0,"fade":235.36},{"opacity":100,"in":[2746.3,2746.3]},{"in":[2746.3,Infinity],"opacity":100,"fade":50}]);/* scroll effect */
 $('#u782').registerOpacityScrollEffect([{"in":[-Infinity,3463.85],"opacity":0,"fade":235.7},{"opacity":100,"in":[3463.85,3463.85]},{"in":[3463.85,Infinity],"opacity":100,"fade":50}]);/* scroll effect */
 $('#u779').registerOpacityScrollEffect([{"in":[-Infinity,4193.3],"opacity":0,"fade":151.45},{"opacity":100,"in":[4193.3,4193.3]},{"in":[4193.3,Infinity],"opacity":100,"fade":50}]);/* scroll effect */
-$('#u874').registerBackgroundPositionScrollEffect([{"speed":[0,0.7],"in":[-Infinity,6379.47]},{"speed":[0,0.7],"in":[6379.47,Infinity]}]);/* scroll effect */
 Muse.Utils.showWidgetsWhenReady();/* body */
 Muse.Utils.transformMarkupToFixBrowserProblems();/* body */
 }catch(b){if(b&&"function"==typeof b.notify?b.notify():Muse.Assert.fail("Error calling selector function: "+b),false)throw b;}})})};
